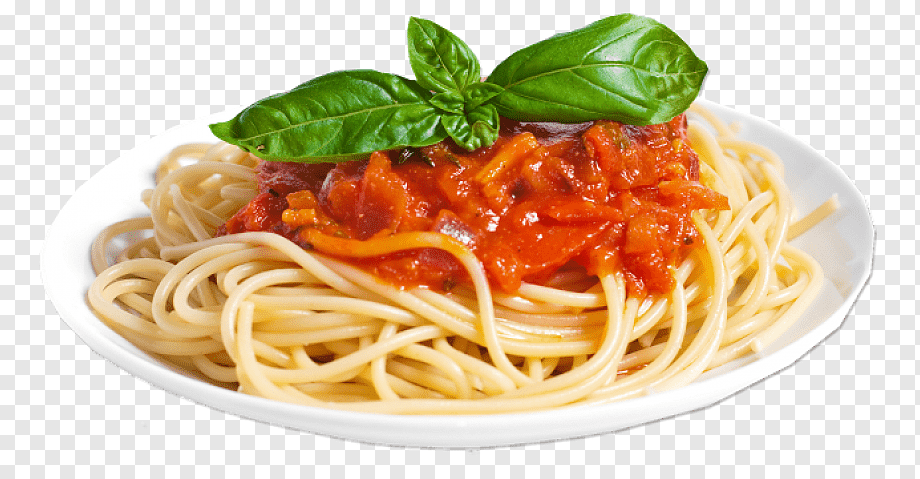
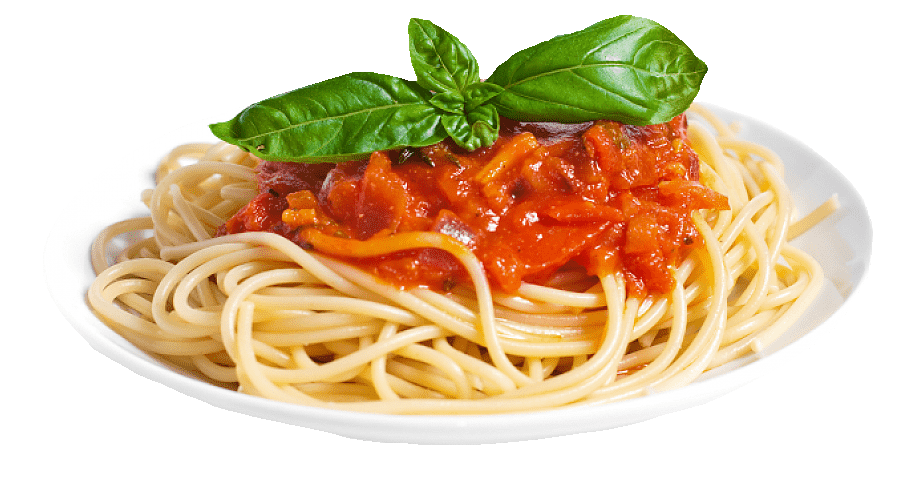
Add second image for heading background

Changed region(s): [[0.0, 0.0, 1.0, 1.0]]

diff --git a/src/views/HomeView.vue b/src/views/HomeView.vue
@@ -22,6 +22,7 @@
           </div>
           <div class="Heading__right--backgroundImages">
             <img src="/Background-images/Pizza-background.png" alt="Bowl background image">
+            <img src="/Background-images/Sphagetti-background.png" alt="Sphagetti background image">
           </div>
         </div>
       </div>
@@ -174,20 +175,34 @@ export default defineComponent ({
           }
 
           &--backgroundImages {
+            width: 100%;
+            height: 100%;
             position: absolute;
             top: 0;
             left: 0;
 
             img {
-              position: absolute;
-              aspect-ratio: 16/9;
-              height: 150px;
-              top: 60px;
-              left: 40px;
-              overflow: hidden;
-              transform: rotate(-10deg);
-              animation: firstBackgroundItemMove 2s forwards, firstBackgroundItemSpin 10s infinite;
-              animation-delay: 0s, 2s;
+
+              &:nth-child(1) {
+                position: absolute;
+                aspect-ratio: 16/9;
+                height: 150px;
+                top: 60px;
+                left: 40px;
+                overflow: hidden;
+                transform: rotate(-10deg);
+                animation: firstBackgroundItemMove 2s forwards, firstBackgroundItemSpin 10s infinite;
+                animation-delay: 0s, 2s;
+              }
+
+              &:nth-child(2) {
+                position: absolute;
+                aspect-ratio: 16/9;
+                height: 60%;
+                overflow: hidden;
+                left: 150px;
+                bottom: -50px;
+              }
             }
           }
         }
